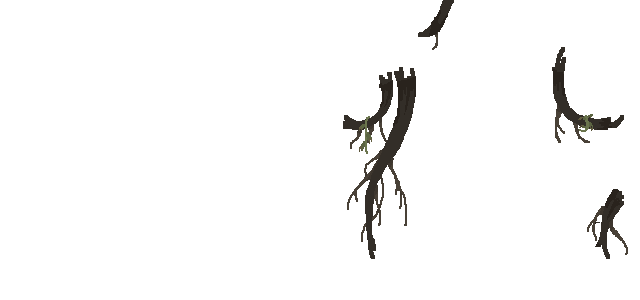
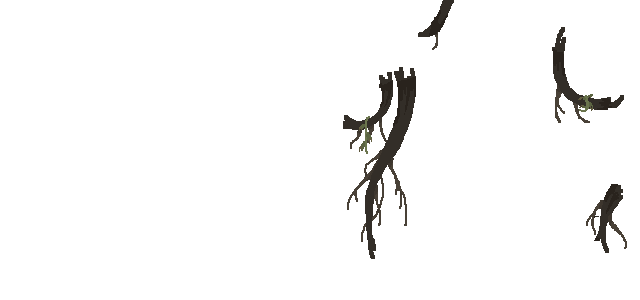
Boss timer added and some arena tweaks

Changed region(s): [[0.8438, 0.24, 1.0, 0.48], [0.9062, 0.6, 1.0, 0.87], [0.8438, 0.09, 0.9062, 0.21]]

diff --git a/SeaBunnyRoom.cs b/SeaBunnyRoom.cs
@@ -5,34 +5,67 @@ using System.Threading.Tasks;
 public partial class SeaBunnyRoom : Node2D
 {
 	private bool transitioning = false;
+	private Node2D Player;
+	private Node2D SeaBunny;
+
 
 	// Called when the node enters the scene tree for the first time.
 	public override void _Ready()
 	{
+		Player =  GetNode<CharacterBody2D>("GroundPlayer");
+		SeaBunny = GetNode<CharacterBody2D>("Seabunny");
 	}
 
 	// Called every frame. 'delta' is the elapsed time since the previous frame.
 	public override async void _Process(double delta)
 	{
+		if (Player.Position.X <= 300)
+		{
+			if (SeaBunny is Seabunny sb)
+			{
+				sb.InFight = false;
+			}
+		}
+
 		if (!transitioning)
 		{
 			await NextRoomCheck();
 		}
+
+		///GD.Print(GetNode<Godot.Timer>("VineTimer").TimeLeft);///
 	}
 
+	private void OnVineTimerTimeout()
+	{
+		var anim = GetNode<AnimationPlayer>("AnimationPlayer");
+		anim.Play("vine_appear");	
+	}
+
+	public void StartFight(Node2D Player)
+	{
+		GetNode<Godot.Timer>("VineTimer").Start();
+		if (SeaBunny is Seabunny sb)
+		{
+			sb.StartFight();
+		}
+	}
 	public async void EndFight(Node2D player)
 	{
 		player.GetNode<AnimatedSprite2D>("AnimatedSprite2D").Stop();
+		
 		if (player is Player p)
 		{
+			p.invulnerable = true;
 			p.SetDisableMovement(true);
-			var seabunny = GetNode<CharacterBody2D>("Seabunny");
-			if (seabunny is Seabunny sb)
+			if (SeaBunny is Seabunny sb)
 			{
+				GD.Print("Ending");///
+				sb.InFight = false;
 				await sb.EndFight();
 			}
 
 			p.SetDisableMovement(false);
+			p.invulnerable = false;
 		}
 	}
 

diff --git a/Seabunny.cs b/Seabunny.cs
@@ -10,7 +10,7 @@ public partial class Seabunny : CharacterBody2D
 	// [Export]
 	// public String animationOverride {get; set;} = null;
 
-	private bool InFight;
+	public bool InFight;
 
 	private AnimatedSprite2D animatedSprite;
 	private Godot.Timer idleTimer;
@@ -51,7 +51,7 @@ public partial class Seabunny : CharacterBody2D
 		// }
 	}
 
-	private async void StartFight()
+	public async void StartFight()
 	{
 		Position = new Vector2(485, 208);
 		InFight = true;
@@ -62,11 +62,15 @@ public partial class Seabunny : CharacterBody2D
 	public async Task EndFight()
 	{
 		InFight = false;
+		GD.Print("Ending2");///
+
+		GetNode<CollisionShape2D>("Hitbox/CollisionShape2D").Disabled = true;
+		
 		var anim = GetParent().GetNode<AnimationPlayer>("AnimationPlayer");
 
 		Velocity = Vector2.Zero;
 		facingLeft = false;
-		await Dash(3);
+		await Dash(1);
 		Position = new Vector2(550, 208);
 
 		animatedSprite.Animation = "start_climb";
@@ -90,6 +94,7 @@ public partial class Seabunny : CharacterBody2D
 	//every time it is done waiting, do another attack
 	private async void OnIdleTimerTimeout()
 	{
+		GD.Print("Timeout " + InFight);///
 		if (InFight)
 		{
 			await DoAttack();
@@ -98,6 +103,7 @@ public partial class Seabunny : CharacterBody2D
 
 	private async Task DoAttack()
 	{
+		GD.Print("Do attack");///
 		int attack = GD.RandRange(0, 3);
 		if (attack == 0)
 		{

diff --git a/BobaShop.cs b/BobaShop.cs
@@ -33,7 +33,7 @@ public partial class BobaShop : Node2D
 	
 	public async void StartDialogue() {
 		csAnimation.Animation = "sit";
-		if (GlobalScript.metAzucat && !GlobalScript.metCatssava) {
+		if (GlobalScript.MetAzucat && !GlobalScript.MetCatssava) {
 			await catssavaT.ShowText("Oh hi there, I’m Catssava, the shopkeeper here. What can I help you with?");
 			await dashT.ShowText("I need some tapioca boba, that’s all!");
 			await catssavaT.ShowText("Oh dear, t-tapioca boba?!");
@@ -59,9 +59,9 @@ public partial class BobaShop : Node2D
 			else {
 				await dashT.ShowText("My name is Dash. Azucat won't give me a new boat until I get him tapioca, so it's only right for me to do this.");
 			}
-			GlobalScript.metCatssava = true;
+			GlobalScript.MetCatssava = true;
 		}
-		else if (GlobalScript.metCatssava) {
+		else if (GlobalScript.MetCatssava) {
 			//maybe we can have a list of dialogue and pick a random one
 			await catssavaT.ShowText("Oh, thank you so very much for helping me, Dash!");
 		}

diff --git a/EnterSeaBunnyRoom.cs b/EnterSeaBunnyRoom.cs
@@ -7,14 +7,14 @@ public partial class EnterSeaBunnyRoom : Node2D
 	private bool transitioning = false;
 	private TextBox dashT;
 	private TextBox parvaT;
-	private static bool fedToBunny = false;
+	//private static bool fedToBunny = false;
 
 	// Called when the node enters the scene tree for the first time.
 	public override void _Ready()
 	{
 		dashT = GetNode<TextBox>("GroundPlayer/TextBox");
 		parvaT = GetNode<TextBox>("Parva/TextBox");
-		if (!fedToBunny) {
+		if (!GlobalScript.FedToBunny) {
 			GetNode<AnimatedSprite2D>("Parva").Show();
 			StartDialogue();
 		}
@@ -67,7 +67,7 @@ public partial class EnterSeaBunnyRoom : Node2D
 		await dashT.ShowText("...where did he go?");
 		await dashT.ShowText("Seems like I'm stuck here. Maybe the boba here somewhere?");
 		player.InputEnabled = true;
-		fedToBunny = true;
+		GlobalScript.FedToBunny = true;
 	}
 
 	private async Task NextRoomCheck() {

diff --git a/GlobalScript.cs b/GlobalScript.cs
@@ -7,9 +7,10 @@ public partial class GlobalScript : Node2D
 	//Eventually initialize to save file data
 	public static int coins {get; set;} = 0;
 	public static List<string> Inventory {get; set;} = new List<string>();
-	public static bool metAzucat{get; set;} = false;
-	public static bool metCatssava{get; set;} = false;
+	public static bool MetAzucat{get; set;} = false;
+	public static bool MetCatssava{get; set;} = false;
 
+	public static bool FedToBunny {get; set;} = false;
 	public static bool FinishedSeaBunny{get; set;} = false;
 
 	public static bool GotSeaBoba{get; set;} = false;

diff --git a/SubmarineShop.cs b/SubmarineShop.cs
@@ -38,7 +38,7 @@ public partial class SubmarineShop : Node2D
 	
 	public async void startDialogue(Node2D player) {
 		if (playerTextNode is TextBox pText && azucatTextNode is TextBox aText) {
-			if (!GlobalScript.metAzucat) {
+			if (!GlobalScript.MetAzucat) {
 				if (player is Player p)
 				{
 					p.SetDisableMovement(true);
@@ -66,7 +66,7 @@ public partial class SubmarineShop : Node2D
 				}
 
 				//make player go through entire dialogue if they exited the shop in the middle of it
-				GlobalScript.metAzucat = true;
+				GlobalScript.MetAzucat = true;
 
 				if (player is Player p2)
 				{

diff --git a/Camera2d.cs b/Camera2d.cs
@@ -88,7 +88,7 @@ public partial class Camera2d : Camera2D
 		else if (player.GetParent().Name == "SeaBunnyRoom")
 		{
 			SetLimit(Side.Right, 640);
-			SetLimit(Side.Bottom, 300);
+			SetLimit(Side.Bottom, 270);
 
 			if (player.Position.X >= 320)
 			{

diff --git a/InteractArea.cs b/InteractArea.cs
@@ -42,7 +42,7 @@ public partial class InteractArea : Area2D
 			{
 				level = (Node2D) level.GetParent();
 			}
-			catch (Exception e)
+			catch
 			{
 				break;
 			}

diff --git a/Player.cs b/Player.cs
@@ -19,7 +19,7 @@ public partial class Player : CharacterBody2D
 	private int hp;
 
 	//if true, player can't get hit
-	private Boolean invulnerable;
+	public Boolean invulnerable;
 
 	//used in cutscenes (implemented in the GroundPlayer and UnderwaterPlayer classes)
 	private Boolean disableMovement;